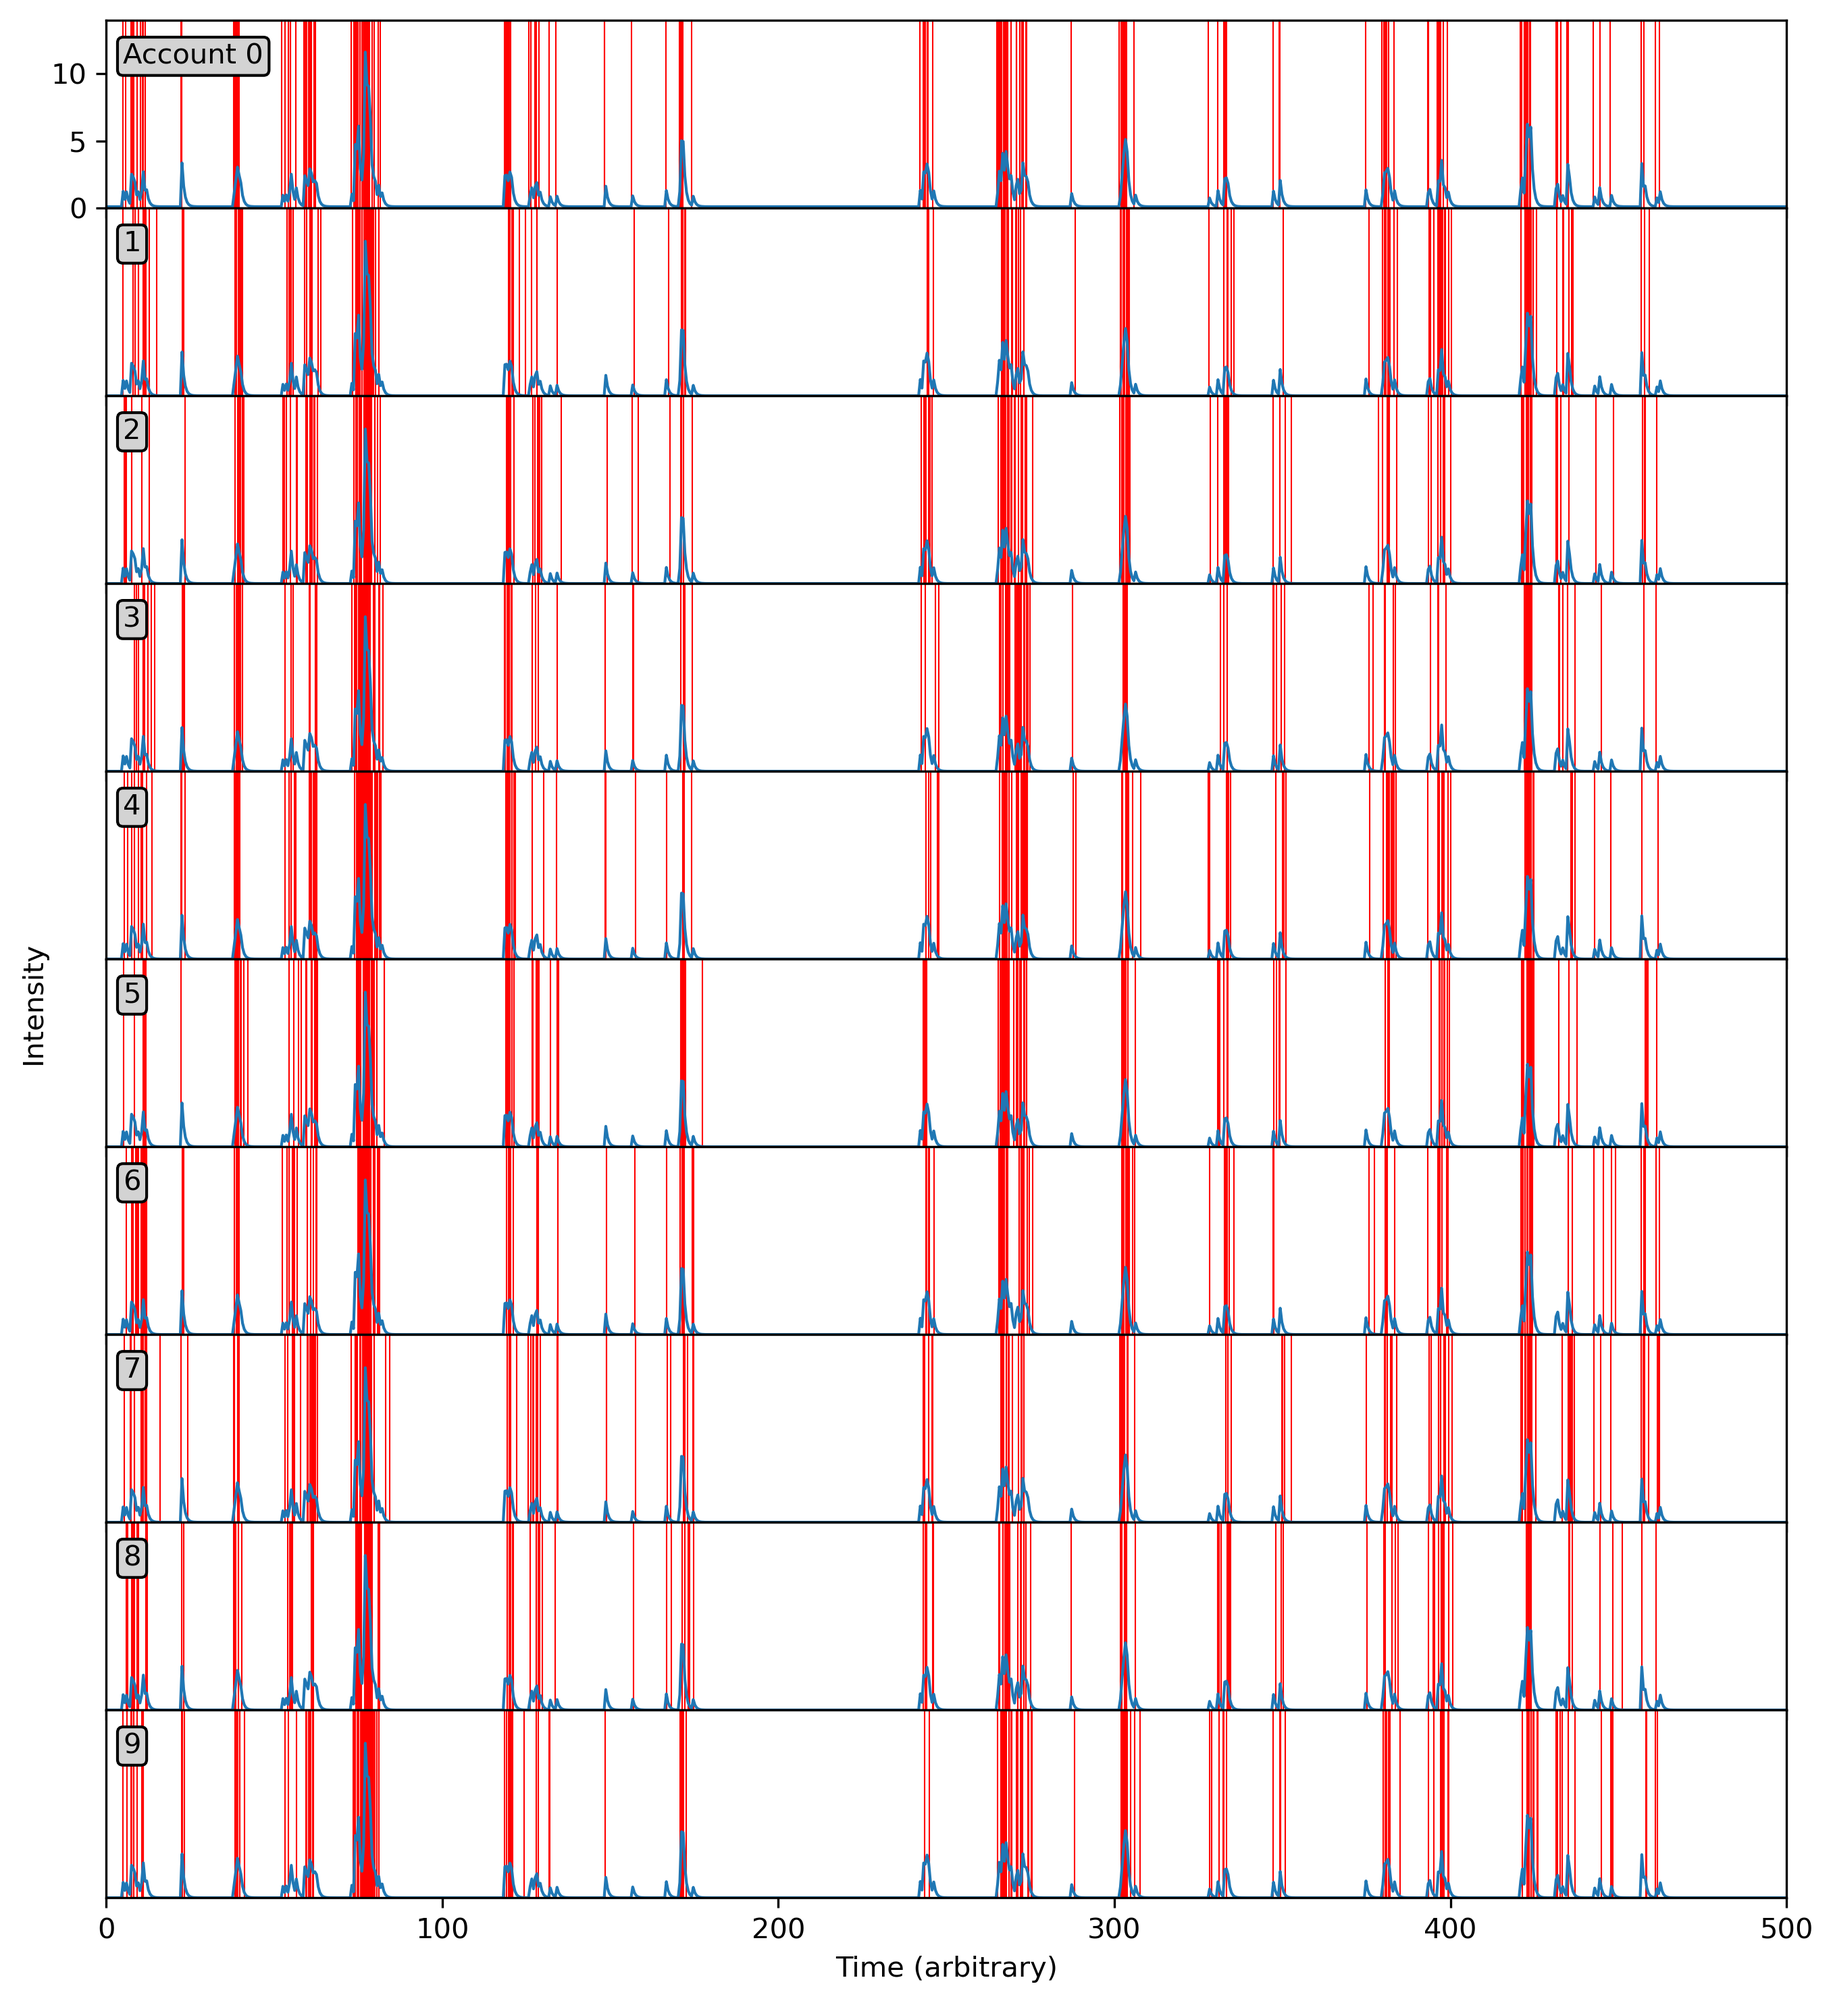
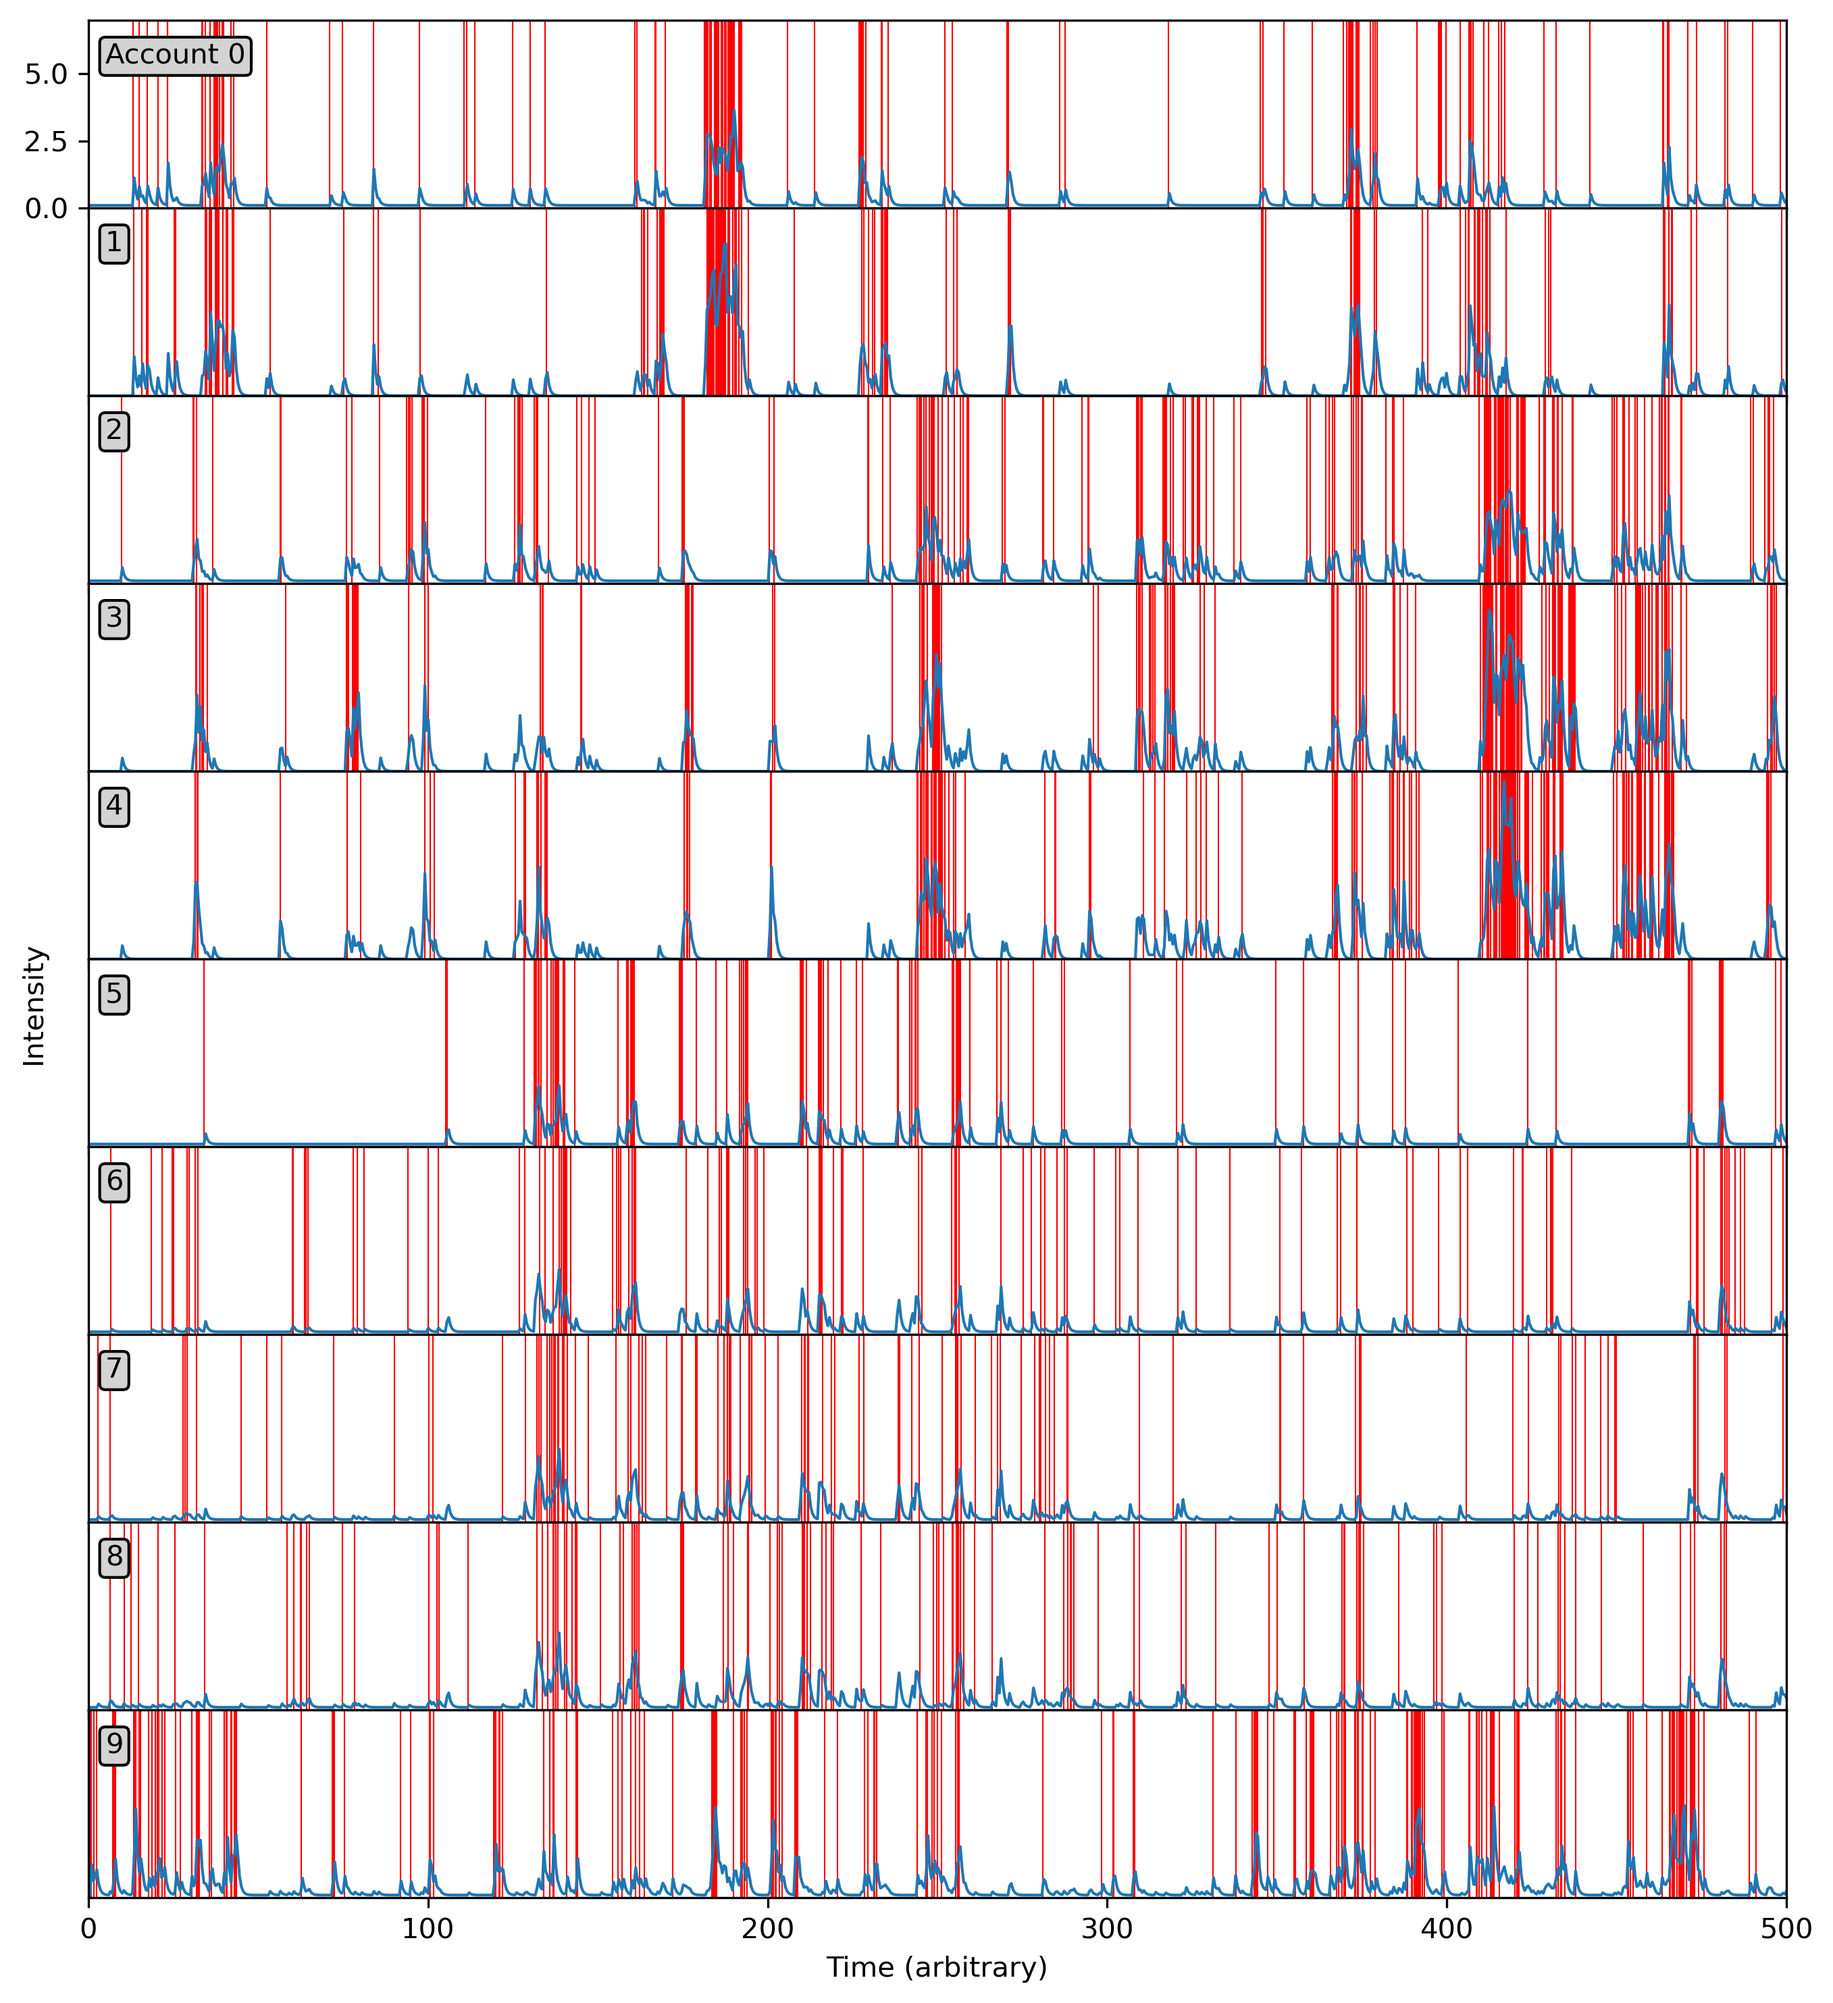
corrections to nll sign

Changed region(s): [[0.031, 0.0, 0.9595, 0.9926], [0.9595, 0.2481, 0.9904, 0.4032], [0.9595, 0.4343, 0.9904, 0.4963]]

diff --git a/examples/simulate_data.py b/examples/simulate_data.py
@@ -70,14 +70,34 @@ args = parser.parse_args()
 # Simulate Hawkes process data
 
 # Fixed simulation hyperparameters to imitate "hub-and-spoke" interaction behavior
-S = 0.1  # Spontaneous rate
-I = 0.9  # Influence rate
+# S = 0.1  # Spontaneous rate
+# I = 0.9  # Influence rate
+# sim_K = 1
+# sim_gamma = [1.5] * sim_K
+# sim_init_scale = 0.1
+# sim_mu = [S] + [0] * (args.M - 1)  # Only hub has spontaneous activity
+# sim_alpha = [[0] * args.M for _ in range(args.M)]
+# sim_alpha[0] = [I] * args.M  # Hub influences all nodes including self
+
+S = 0.1
+I = 0.5
+M = 10
 sim_K = 1
-sim_gamma = [1.5] * sim_K
+sim_gamma = [1.5]
 sim_init_scale = 0.1
-sim_mu = [S] + [0] * (args.M - 1)  # Only hub has spontaneous activity
-sim_alpha = [[0] * args.M for _ in range(args.M)]
-sim_alpha[0] = [I] * args.M  # Hub influences all nodes including self
+sim_mu = [S, 0, S, 0, 0, S, S, S, S, S]
+sim_alpha = [
+    [I, I, 0, 0, 0, 0, 0, 0, 0, 0],
+    [S, I, 0, 0, 0, 0, 0, 0, 0, S],
+    [0, 0, I, I, I, 0, 0, 0, 0, 0],
+    [0, 0, S, I, S, 0, 0, 0, 0, 0],
+    [0, 0, S, S, I, 0, 0, 0, 0, S],
+    [0, 0, 0, 0, 0, I, I, I, I, 0],
+    [0, 0, 0, 0, 0, 0, S, S, S, 0],
+    [0, 0, 0, 0, 0, 0, 0, S, S, 0],
+    [0, 0, 0, 0, 0, 0, 0, 0, S, S],
+    [0, 0, 0, 0, 0, 0, 0, 0, 0, I],
+]
 
 # Initialize model used for simulation
 model_sim = models.HawkesFullRank(

diff --git a/src/hawkes/models/hawkes_full_rank.py b/src/hawkes/models/hawkes_full_rank.py
@@ -120,11 +120,10 @@ class HawkesFullRankNLL(torch.autograd.Function):
         gamma_grad = None
 
         return (
-            None,
-            alpha_grad * ctx.trans.derivative(inv_alpha) * grad_output,
-            mu_grad * ctx.trans.derivative(inv_mu) * grad_output,
+            -mu_grad * ctx.trans.derivative(inv_mu) * grad_output,
+            -alpha_grad * ctx.trans.derivative(inv_alpha) * grad_output,
             gamma_grad,
-        ) + (None,) * 7
+        ) + (None,) * 8
 
 
 class HawkesFullRank(HawkesBase):

diff --git a/examples/fit_model.py b/examples/fit_model.py
@@ -112,7 +112,7 @@ match args.model_type:
         ).to(args.device)
 
 _ = model_est.fit(
-    1_000_000, ti, mi, fit_config
+    int(ti.max()), ti, mi, fit_config
 )  # Use a large number to capture all events
 
 # Save estimated model
